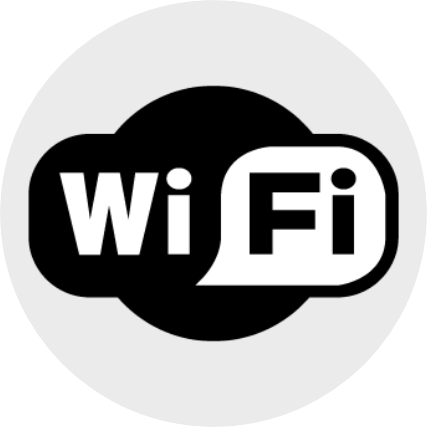
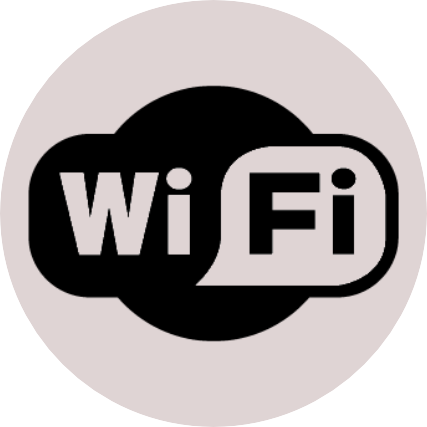
Added pictures of halal, wifi, delivery

Changed region(s): [[0.4567, 0.3349, 0.9133, 0.6698], [0.1218, 0.3958, 0.3653, 0.6089], [0.3958, 0.3958, 0.4567, 0.6089]]

diff --git a/index.html b/index.html
@@ -174,16 +174,26 @@
                 </section>
                 <br><br><br><br>
 
-                <div style="height:50vh; width:100%">
+                <div style="width:100%; height: auto;" class="container">
                   <div class="col-xs-8 col-xs-offset-2">
-                    <div class="col-xs-4" style="background-color:white; height: 30px;"></div>
-                    <div class="col-xs-4" style="background-color:red; height: 30px;"></div>
-                    <div class="col-xs-4" style="background-color:yellow; height: 30px;"></div>
+                    <div class="col-md-4 col-sm-6 col-xs-6">
+                      <img src="img/halal-e.png" alt="Halal" height="auto" width="100%" style="">
+                      <div class="text-center" style="color: white; padding-top: 20px; font-size: 12px;">We use only pure halal meat in our products.</div>
+                    </div>
+                    <div class="col-md-4 col-sm-6 col-xs-6">
+                      <img src="img/delivery-e.png" alt="Home Delivery" height="auto" width="100%" style="">
+                      <div class="text-center" style="color: white; padding-top: 20px; font-size: 12px;">We deliver food from 12:00 pm till 11:00 pm.</div>
+                    </div>
+                    <div class="col-md-4 col-sm-6 col-xs-6 ">
+                      <img src="img/wifi-e.png" alt="Free Wifi" height="auto" width="100%" style="">
+                      <div class="text-center" style="color: white; padding-top: 20px; font-size: 12px;">Free Wi-fi available.</div>
+                    </div>
                   </div>
 
 
                 </div>
 
+                <br><br><br><br>
                 <section class="parallax2">
                     <div id="section4" class="container col-md-12">
                         <div class="text-center">
